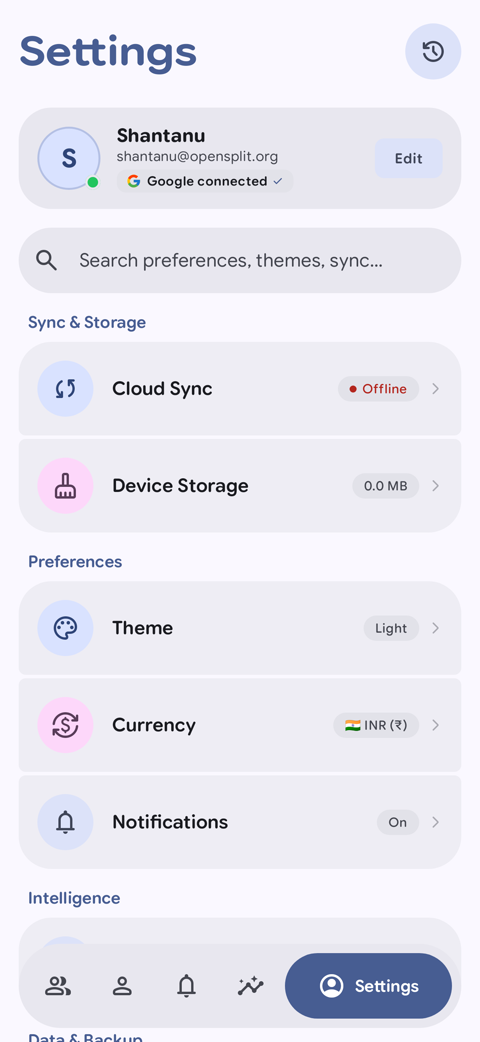
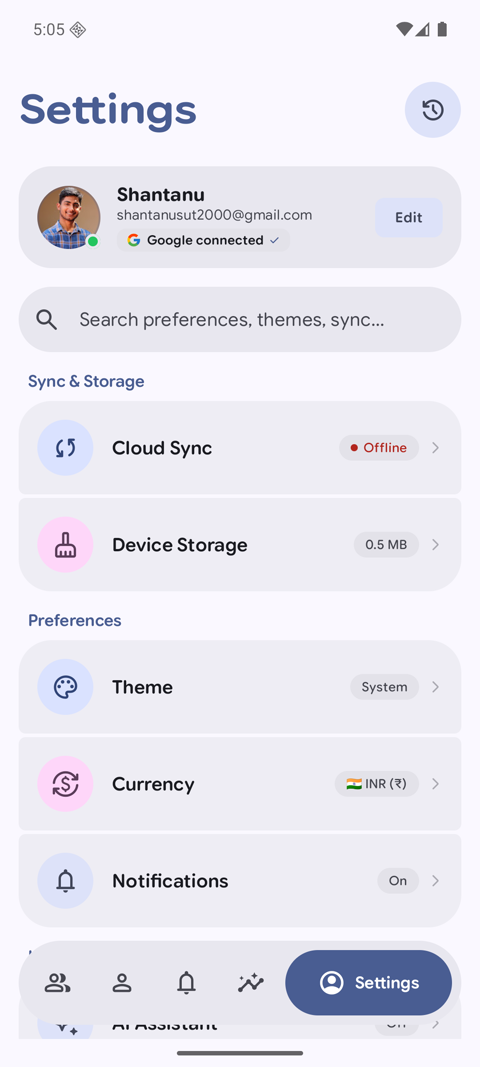
docs: add full new UI screenshots from AVD walkthrough to README

diff --git a/README.md b/README.md
@@ -25,6 +25,24 @@ fewest payments, and bring your own AI key for receipt scanning and natural-lang
 ## Screenshots
 
 <p align="center">
+  <img src="docs/screenshots/onboarding_1.png" width="24%" alt="Onboarding: track expenses together" />
+  <img src="docs/screenshots/onboarding_2.png" width="24%" alt="Onboarding: AI receipt parsing" />
+  <img src="docs/screenshots/onboarding_3.png" width="24%" alt="Onboarding: always free" />
+  <img src="docs/screenshots/signin.png" width="24%" alt="Sign in with Google" />
+</p>
+<p align="center">
+  <img src="docs/screenshots/groups.png" width="24%" alt="Groups tab with net balance" />
+  <img src="docs/screenshots/new_group.png" width="24%" alt="Create group sheet with avatar and currency" />
+  <img src="docs/screenshots/group_detail.png" width="24%" alt="Group detail with spending summary" />
+  <img src="docs/screenshots/add_expense.png" width="24%" alt="Add expense with categories and split modes" />
+</p>
+<p align="center">
+  <img src="docs/screenshots/activity.png" width="24%" alt="Activity feed" />
+  <img src="docs/screenshots/insights.png" width="24%" alt="Insights: spend, cash flow, budgets" />
+  <img src="docs/screenshots/people.png" width="24%" alt="People tab with invite link" />
+  <img src="docs/screenshots/invite_qr.png" width="24%" alt="Invite QR code and share action bar" />
+</p>
+<p align="center">
   <img src="docs/screenshots/settings.png" width="24%" alt="Settings overview" />
   <img src="docs/screenshots/ai_settings.png" width="24%" alt="AI provider configuration" />
   <img src="docs/screenshots/appearance.png" width="24%" alt="Appearance and theme selection" />
